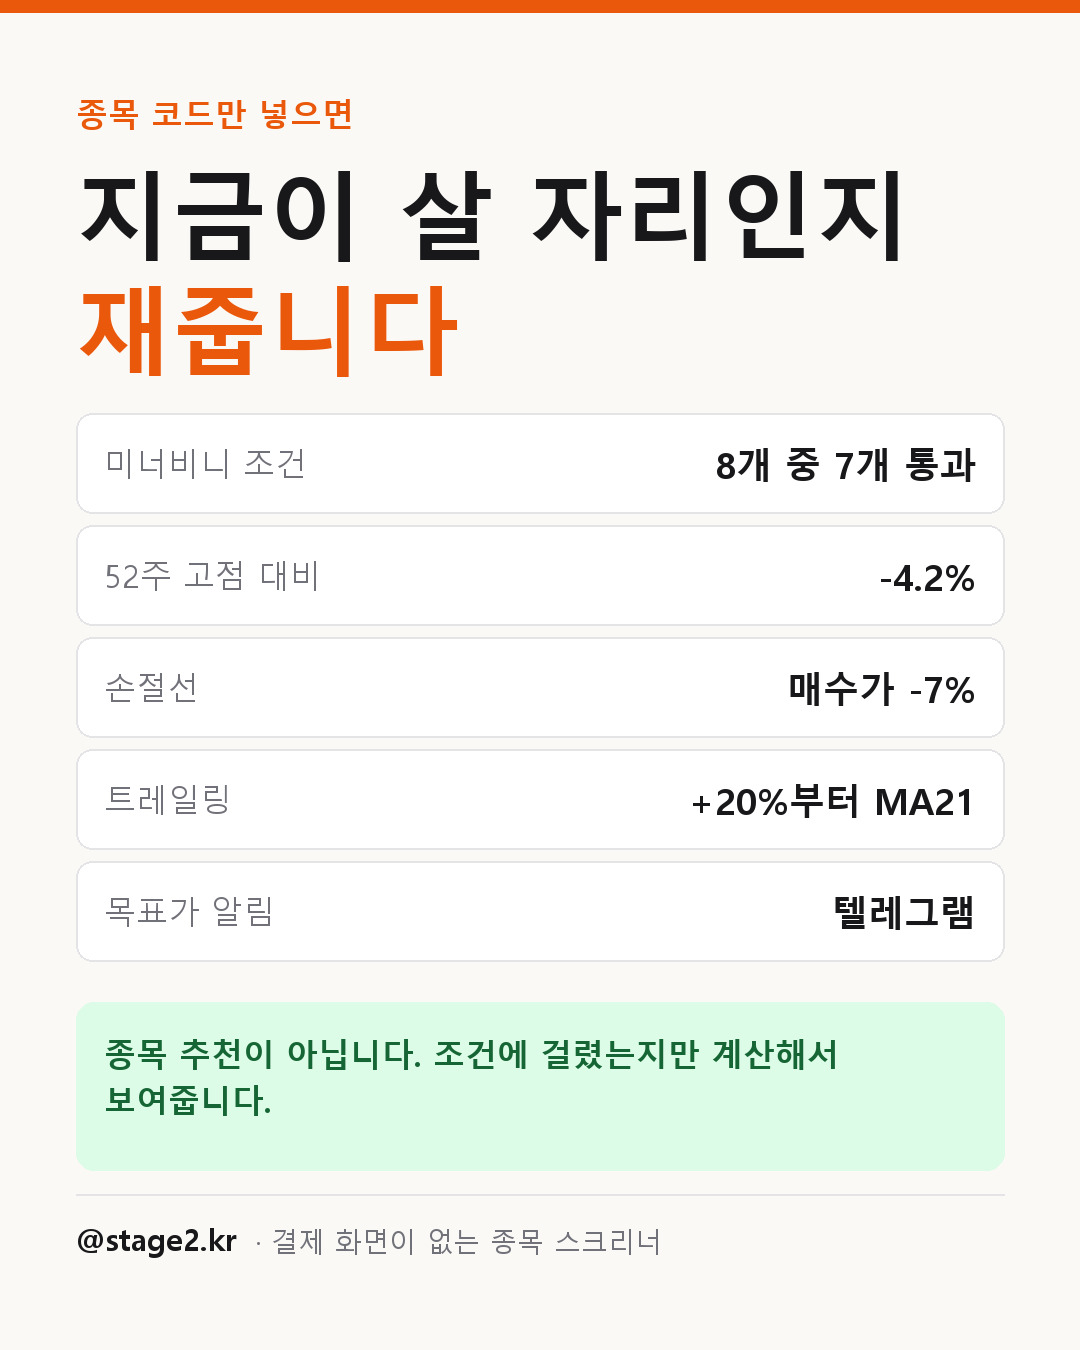
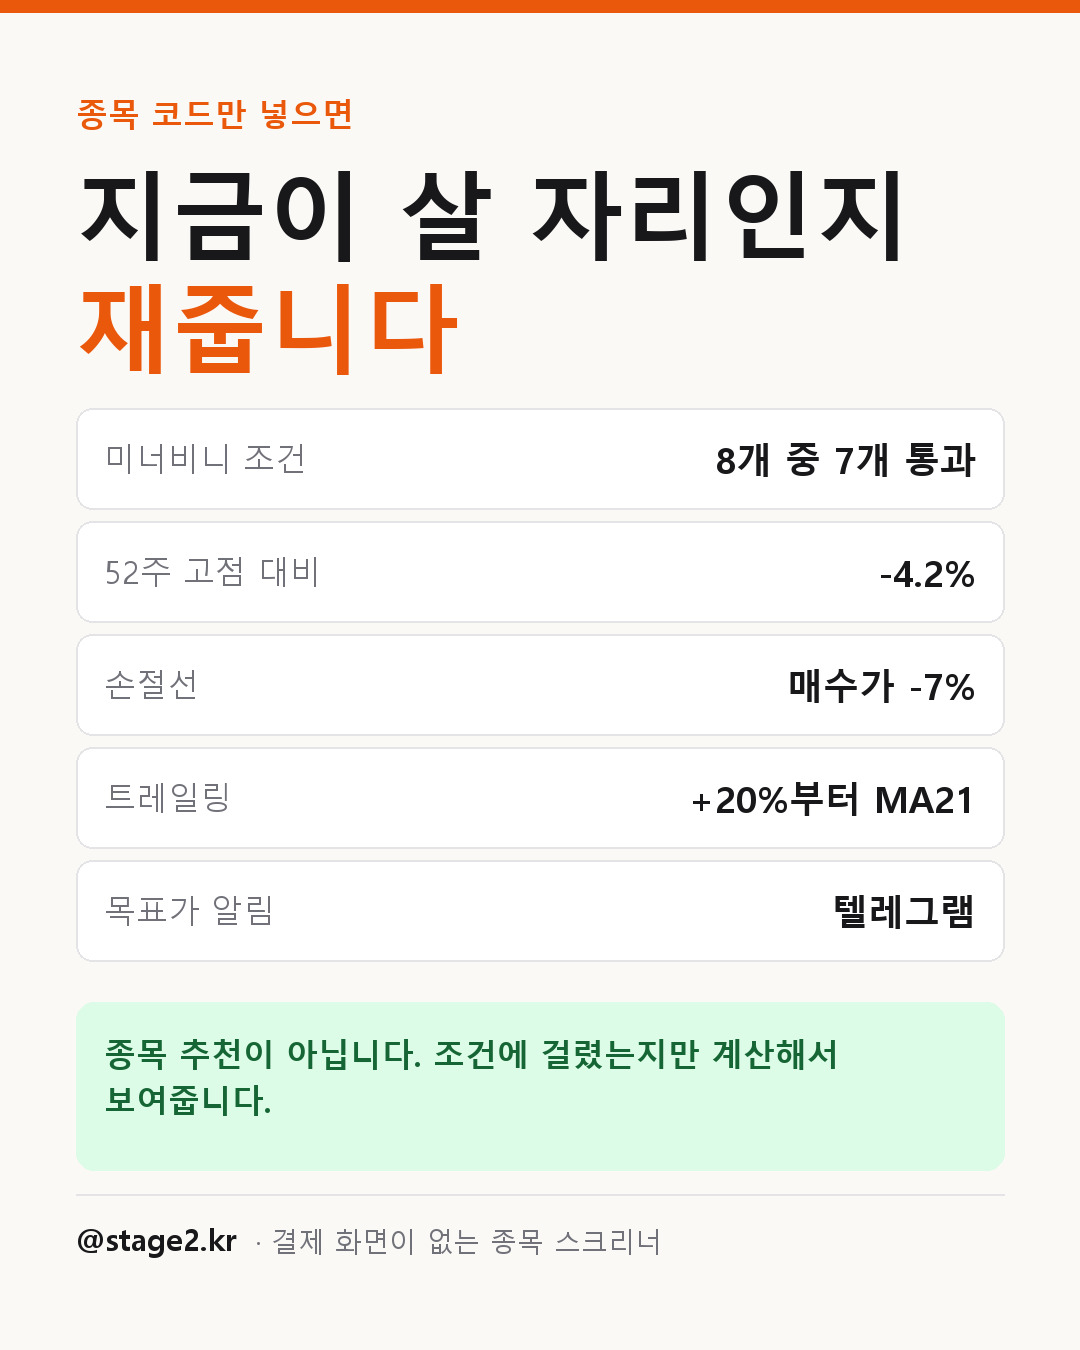
refactor: 카드 헤드라인 그리는 함수를 하나로 합친다
프로모 카드를 넣으면서 _promo_headline()을 새로 만들었는데, 크기를
줄여가며 폭에 맞추는 부분이 기존 _headline()과 똑같았다. 색과 강조
처리만 인자로 받게 해서 하나로 합쳤다.

카드 생성 스크립트 두 개의 main()도 같은 모양이라 card.build_cards()로
모았다.

합치기 전후로 블로그 카드 6장과 소개 카드를 다시 그려 md5가 그대로인
것을 확인했다. 프로모 카드 2장은 줄 간격이 1.20에서 1.18로 통일되며
몇 픽셀 움직였다.

diff --git a/scripts/social/card.py b/scripts/social/card.py
@@ -118,24 +118,59 @@ def _wrap(draw, text, font, max_w):
     return lines
 
 
-def _headline(d, lines, inner_w, top):
+def _segments(line):
+    """'이게 *다* 나옵니다' -> [('이게 ', False), ('다', True), (' 나옵니다', False)]"""
+    out, buf, on = [], "", False
+    for ch in line:
+        if ch == "*":
+            if buf:
+                out.append((buf, on))
+            buf, on = "", not on
+            continue
+        buf += ch
+    if buf:
+        out.append((buf, on))
+    return out
+
+
+def _plain(line):
+    return line.replace("*", "")
+
+
+def _headline(d, lines, inner_w, top, fill=FG, accent=None, min_size=48):
     """썸네일에서도 읽히도록 큰 글씨로 헤드라인을 얹는다.
 
     폭에 맞을 때까지 글자 크기를 줄인다. 줄이 늘어나면 크기도 함께 낮춘다.
+
+    accent 색을 주면 *별표*로 감싼 구간만 그 색으로 그린다. 이때는
+    줄을 자르지 않는다. 강조가 없으면 폭을 넘는 줄을 말줄임표로 자른다.
     """
     size = 96 if len(lines) <= 2 else 78
-    while size > 48:
+    while size > min_size:
         f = _font(True, size)
-        if all(d.textlength(l, font=f) <= inner_w for l in lines):
+        if all(d.textlength(_plain(l), font=f) <= inner_w for l in lines):
             break
         size -= 4
     f = _font(True, size)
     lh = int(size * 1.18)
     y = top
     for line in lines:
-        d.text((PAD, y), _fit(d, line, f, inner_w), font=f, fill=FG)
+        if accent is None:
+            d.text((PAD, y), _fit(d, line, f, inner_w), font=f, fill=fill)
+        else:
+            x = PAD
+            for text, on in _segments(line):
+                d.text((x, y), text, font=f, fill=accent if on else fill)
+                x += d.textlength(text, font=f)
         y += lh
     return y
+
+
+def build_cards(cards, render, **kwargs):
+    """{파일명: 스펙}을 전부 그린다. 카드 생성 스크립트 두 개가 같이 쓴다."""
+    for name, spec in cards.items():
+        render(spec, CARD_DIR / name, **kwargs)
+        print(f"카드 생성: assets/cards/{name}")
 
 
 def render_card(post, out_path, brand="종목노트", url=""):
@@ -335,45 +370,6 @@ P_HL_BG = (220, 252, 231)
 P_HL_FG = (22, 101, 52)
 
 
-def _segments(line):
-    """'이게 *다* 나옵니다' -> [('이게 ', False), ('다', True), (' 나옵니다', False)]"""
-    out, buf, on = [], "", False
-    for ch in line:
-        if ch == "*":
-            if buf:
-                out.append((buf, on))
-            buf, on = "", not on
-            continue
-        buf += ch
-    if buf:
-        out.append((buf, on))
-    return out
-
-
-def _plain(line):
-    return line.replace("*", "")
-
-
-def _promo_headline(d, lines, inner_w, top):
-    """강조 구간만 색을 바꿔 그린다. 폭에 맞을 때까지 크기를 줄인다."""
-    size = 96 if len(lines) <= 2 else 78
-    while size > 46:
-        f = _font(True, size)
-        if all(d.textlength(_plain(l), font=f) <= inner_w for l in lines):
-            break
-        size -= 4
-    f = _font(True, size)
-    lh = int(size * 1.20)
-    y = top
-    for line in lines:
-        x = PAD
-        for text, accent in _segments(line):
-            d.text((x, y), text, font=f, fill=P_ACCENT if accent else P_FG)
-            x += d.textlength(text, font=f)
-        y += lh
-    return y
-
-
 def render_promo_card(spec, out_path):
     """무료 배포·소개용 밝은 카드.
 
@@ -408,7 +404,10 @@ def render_promo_card(spec, out_path):
         d.text((PAD, y), spec["eyebrow"], font=f_eyebrow, fill=P_ACCENT)
         y += 56
 
-    y = _promo_headline(d, spec.get("headline") or [], inner_w, y)
+    y = _headline(
+        d, spec.get("headline") or [], inner_w, y,
+        fill=P_FG, accent=P_ACCENT, min_size=46,
+    )
     y += 34
 
     foot_y = H - PAD - 56

diff --git a/scripts/make_blog_cards.py b/scripts/make_blog_cards.py
@@ -157,10 +157,7 @@ def main():
 
     # url을 비워 넘겨 꼬리말의 주소를 뺀다.
     # 이 카드들은 링크로 유도하는 글이 아니라 매매 기록이라 주소가 필요 없다.
-    for name, spec in CARDS.items():
-        rel = f"assets/cards/{name}"
-        card.render_about_card(spec, config.ROOT / rel, brand=brand, url="")
-        print(f"카드 생성: {rel}")
+    card.build_cards(CARDS, card.render_about_card, brand=brand, url="")
 
 
 if __name__ == "__main__":

diff --git a/scripts/make_promo_cards.py b/scripts/make_promo_cards.py
@@ -63,10 +63,7 @@ CARDS = {
 
 
 def main():
-    for name, spec in CARDS.items():
-        out = card.CARD_DIR / name
-        card.render_promo_card(spec, out)
-        print(f"만듦: {out.relative_to(card.ROOT)}")
+    card.build_cards(CARDS, card.render_promo_card)
 
 
 if __name__ == "__main__":
